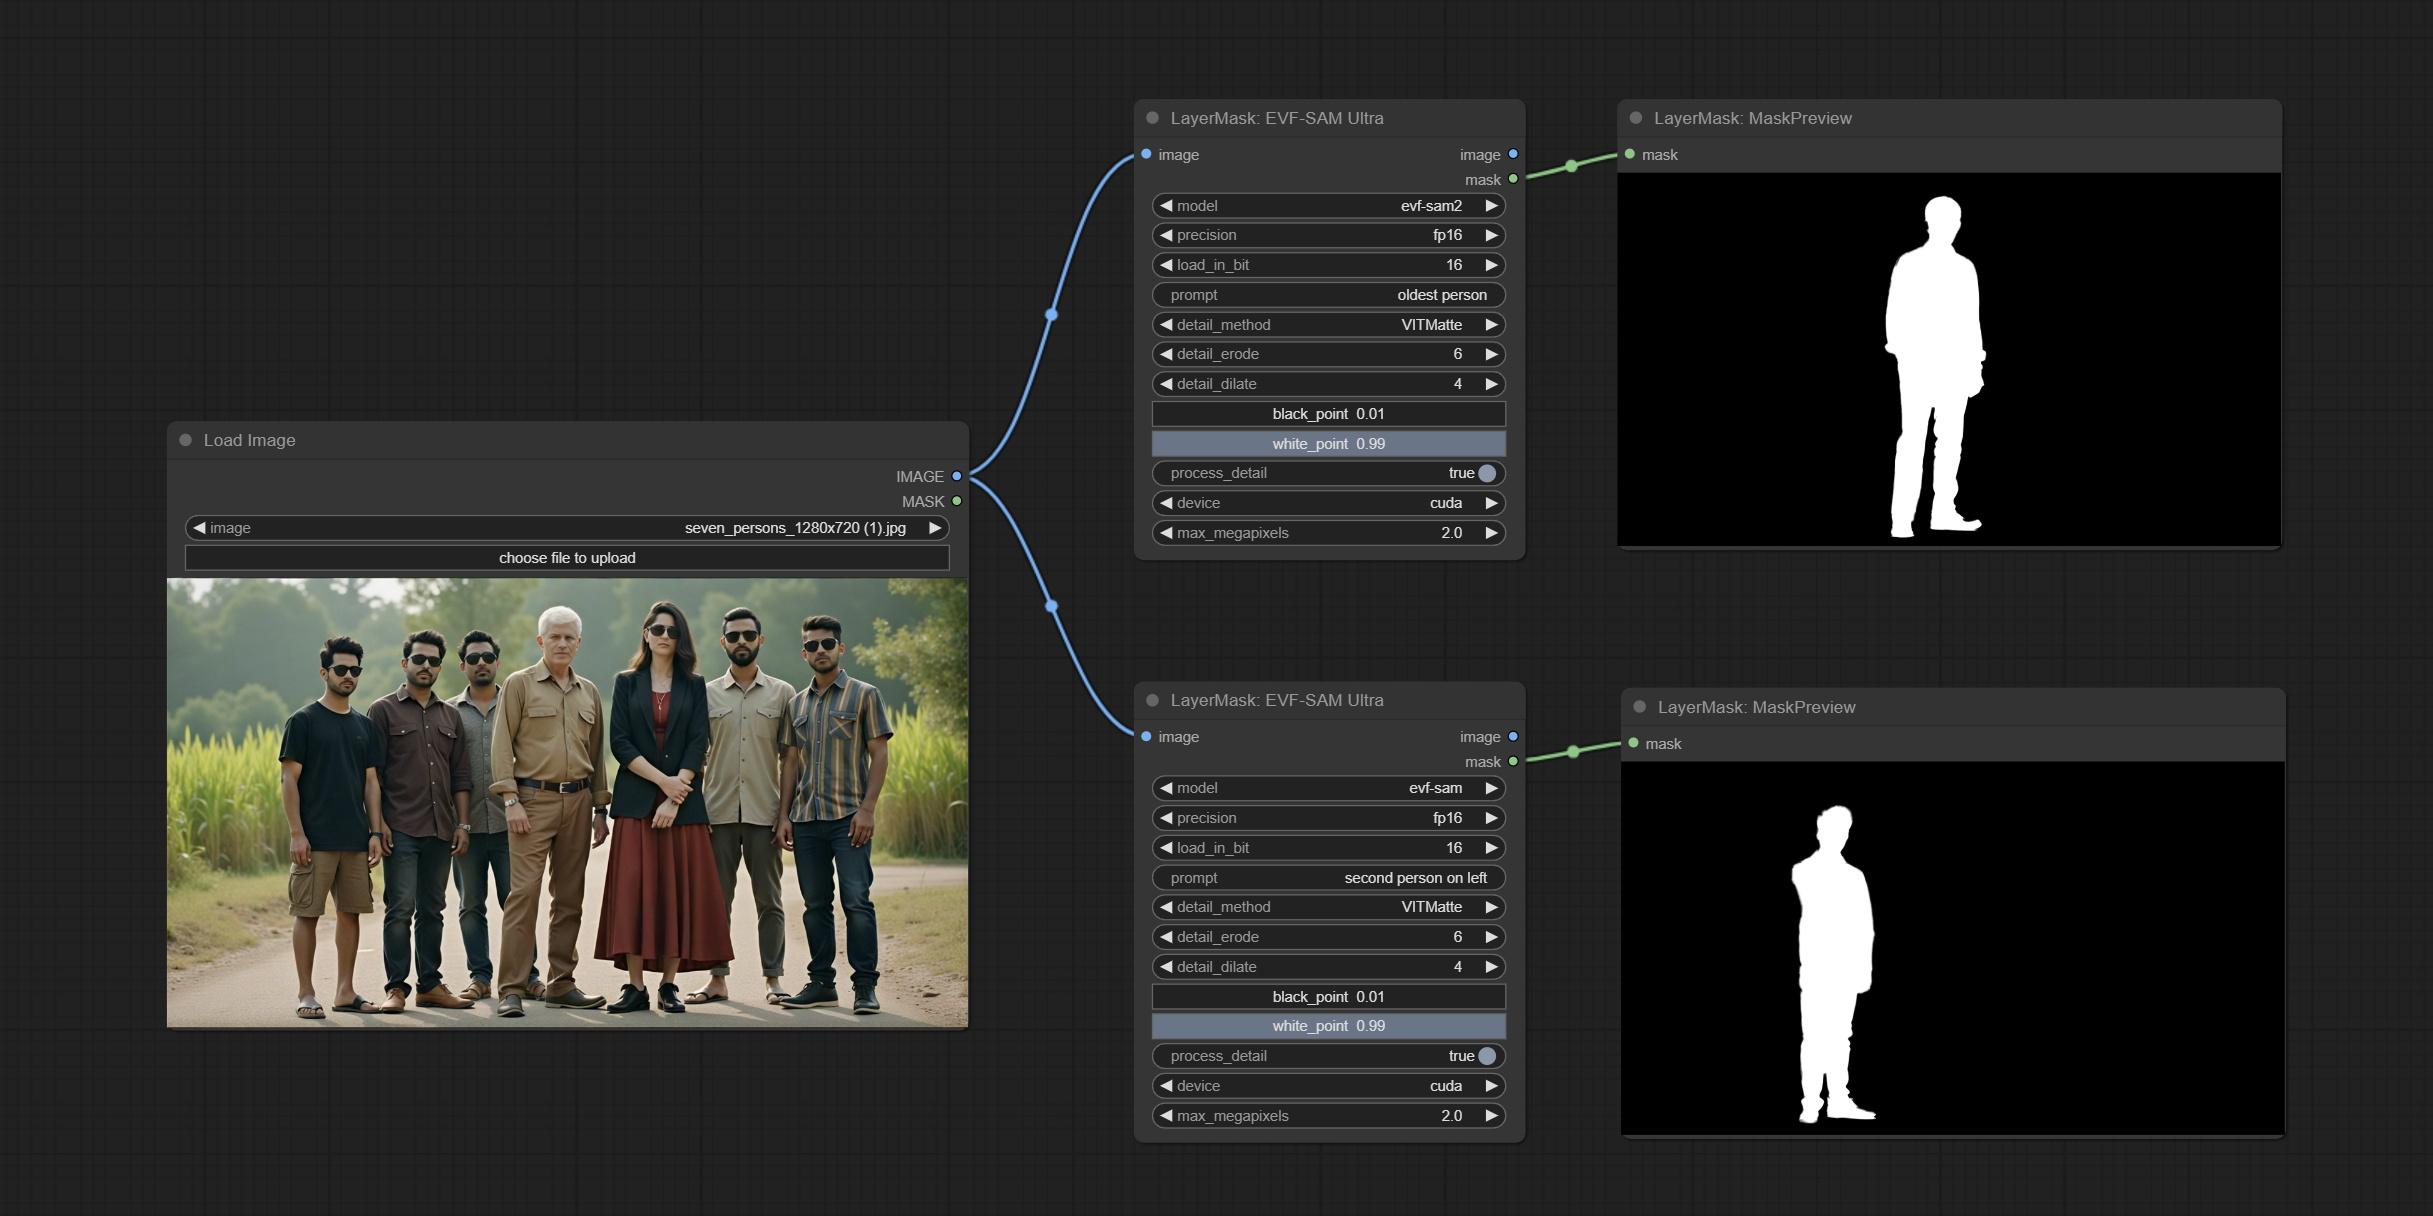
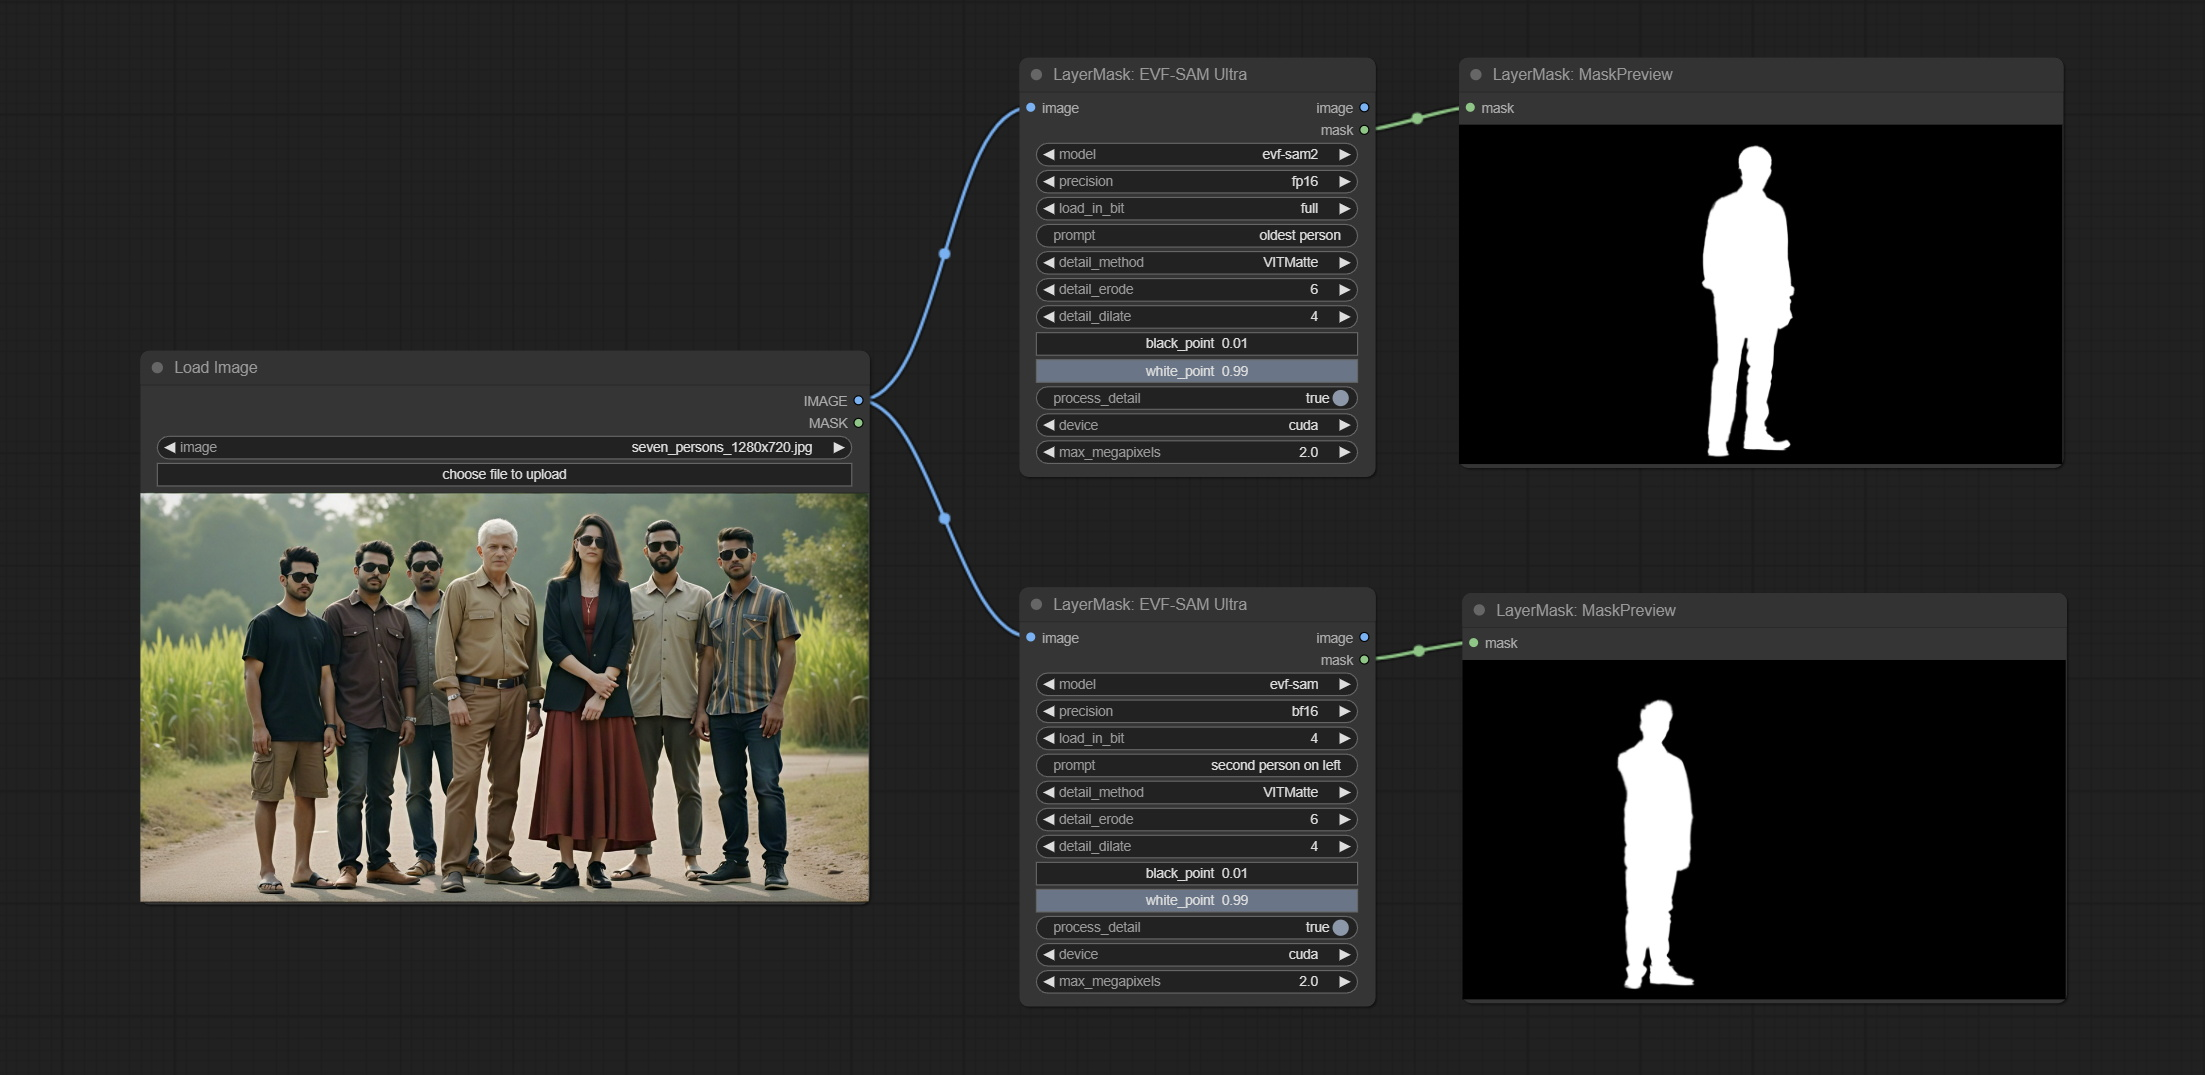
fix EVF-SAMUltra node options

diff --git a/py/evf_sam_ultra.py b/py/evf_sam_ultra.py
@@ -16,7 +16,7 @@ class EVF_SAM_Ultra:
     def INPUT_TYPES(cls):
         model_list = ["evf-sam2","evf-sam"]
         precision_list = ["fp16", "bf16", "fp32"]
-        load_in_bit_list = [16, 8, 4]
+        load_in_bit_list = ["full", "8", "4"]
         method_list = ['VITMatte', 'VITMatte(local)', 'PyMatting', 'GuidedFilter', ]
         device_list = ['cuda', 'cpu']
         return {"required":
@@ -61,6 +61,11 @@ class EVF_SAM_Ultra:
             model_type = 'ori'
         else:
             model_type = 'effi'
+
+        if load_in_bit == 'full':
+            load_in_bit = 16
+        else:
+            load_in_bit = int(load_in_bit)
 
         model_path = ""
         model_folder_name = 'EVF-SAM'

diff --git a/README.MD b/README.MD
@@ -1579,7 +1579,7 @@ Node Options:
 * image: The input image.
 * model: Select the model. Currently, there are options for evf-sam2 and evf sam.
 * presicion: Model accuracy can be selected from fp16, bf16, and fp32.
-* load_in_bit: Load the model with positional accuracy. You can choose from 16, 8, and 4.
+* load_in_bit: Load the model with positional accuracy. You can choose from full, 8, and 4.
 * pormpt: Prompt words used for segmentation.
 * detail_method: Edge processing methods. provides VITMatte, VITMatte(local), PyMatting, GuidedFilter. If the model has been downloaded after the first use of VITMatte, you can use VITMatte (local) afterwards.
 * detail_erode: Mask the erosion range inward from the edge. the larger the value, the larger the range of inward repair.

diff --git a/README_CN.MD b/README_CN.MD
@@ -1557,7 +1557,7 @@ SegmentAnythingUltra的V2升级版，增加了VITMatte边缘处理方法。
 * image: 图片输入。
 * model: 选择模型。目前有 evf-sam2 和 evf-sam 可选。
 * presicion: 模型精度，可选择fp16, bf16 和 fp32。
-* load_in_bit: 按位精度加载模型。可选择16,8 和 4。
+* load_in_bit: 按位精度加载模型。可选择full, 8 和 4。
 * pormpt: 用于分割的提示词。
 * detail_method: 边缘处理方法。提供了VITMatte, VITMatte(local), PyMatting, GuidedFilter。如果首次使用VITMatte后模型已经下载，之后可以使用VITMatte(local)。
 * detail_erode: 遮罩边缘向内侵蚀范围。数值越大，向内修复的范围越大。
